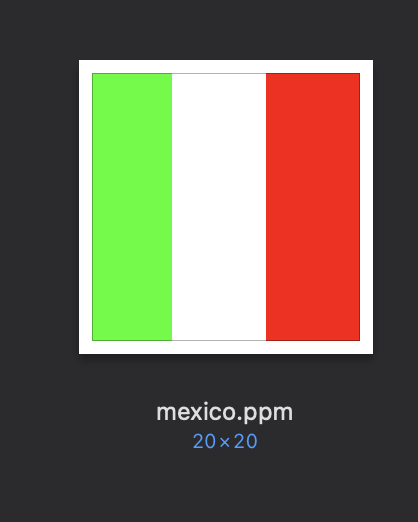
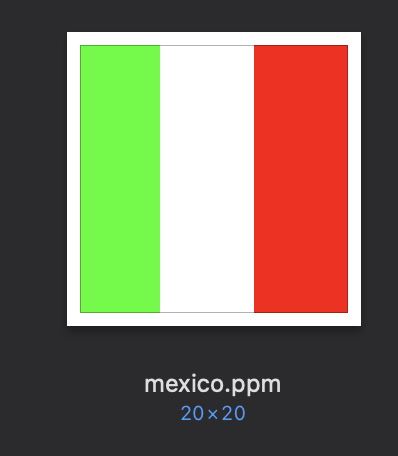
Update to preserve aspect ratio

Changed region(s): [[0.1508, 0.0614, 0.9045, 0.7368], [0.3618, 0.7675, 0.7236, 0.9211]]

diff --git a/README.md b/README.md
@@ -9,12 +9,12 @@ Simple practice to calculate the points of a line segment using line equation.
 Reading from an .obj as source file and drawing it in a .ppm file by making xy projection. 
 Lines can be drawn using line equation, DDA or Bresenham algorithms.
 
-<img src="practice2/output.png" width="200" height="200" />
+<img src="practice2/output.png" width="200" />
 
 ## Practice 3: Animation perspective
 Reading an .obj file and apply some transformations to it. Transformations are applied using 4x4 matrices (in order to use 3D Homogeneous space). Lots of frames (each frame is a .ppm file) are generated to create an animation.
 
-<img src="practice3/output.png" width="200" height="200" />
+<img src="practice3/output.png" width="200" />
 
 
 ## Practice 4:  Illumination
@@ -27,7 +27,7 @@ Drawing 3D surfaces using Bernstein polynomials.
 ### PPM Mexico Creator
 Generate a simple ppm file that draws a mexico flag
 
-<img src="ppm-mexico-creator/output.png" width="200" height="200" />
+<img src="ppm-mexico-creator/output.png" width="200" />
 
 ## YouTube channel
 I'm uploading videos in this channel: https://www.youtube.com/channel/UCCUAluWPgnS40Tc8mtDQR9Q
